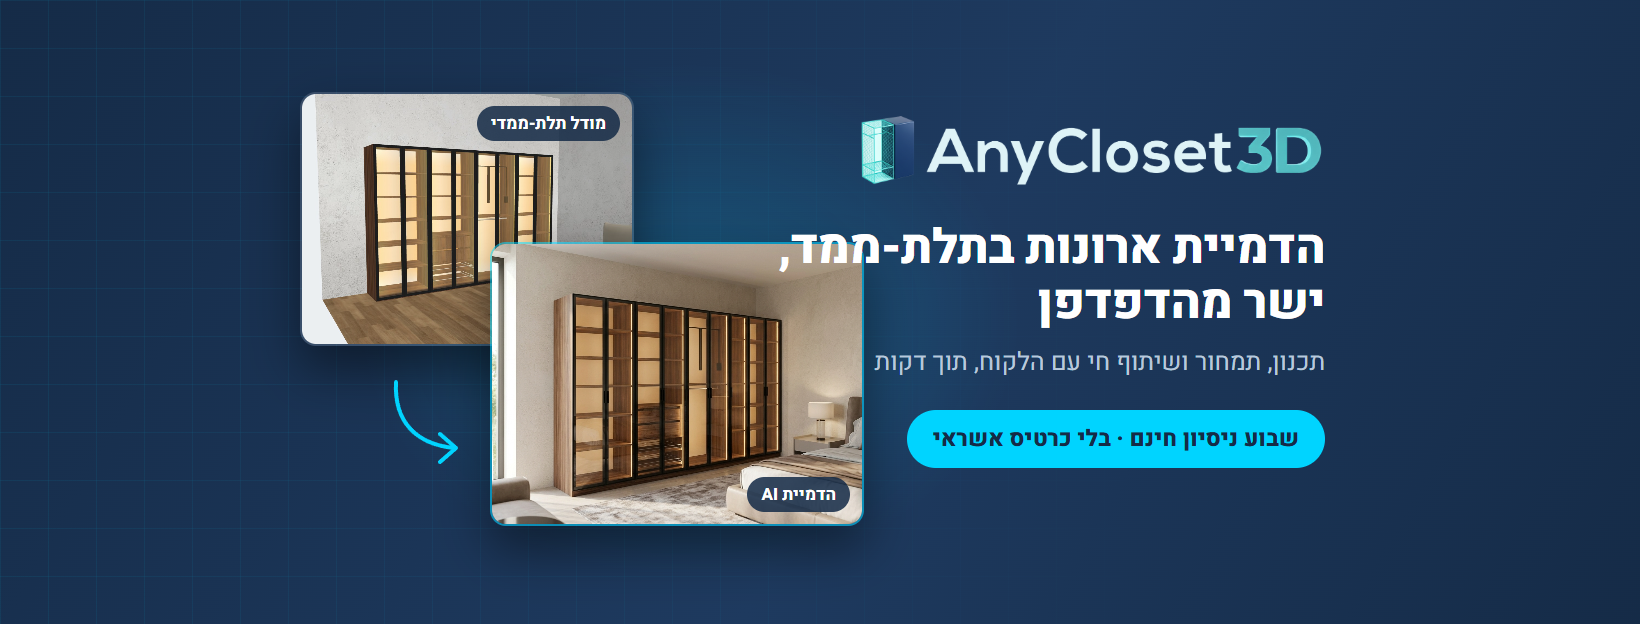
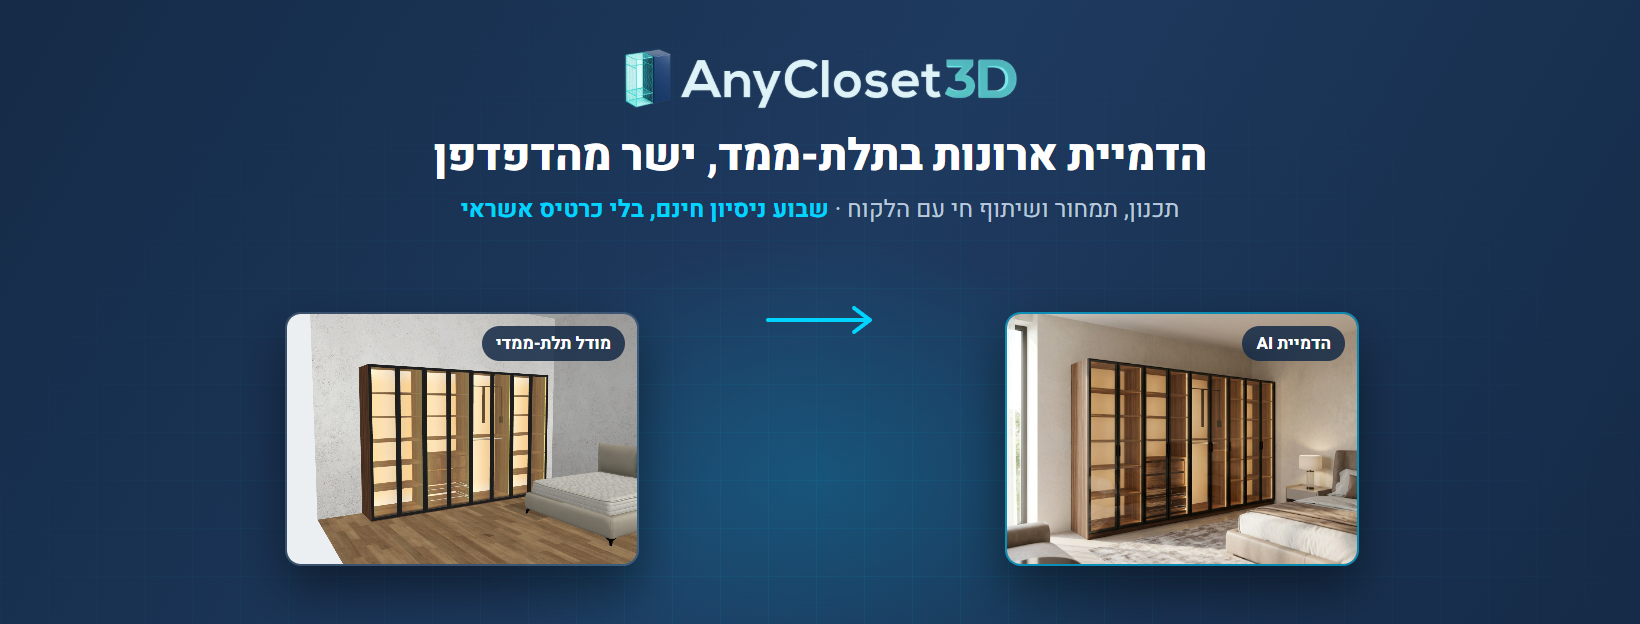
Rearrange the cover so the centered profile picture no longer hides the product shots and CTA

diff --git a/outputs/visuals/brand/src/cover.html b/outputs/visuals/brand/src/cover.html
@@ -8,7 +8,7 @@
   .canvas {
     width: 1640px; height: 624px; position: relative; overflow: hidden;
     font-family: 'Heebo', sans-serif; color: #FFFFFF;
-    background: linear-gradient(120deg, #152B47 0%, #1E3A5F 55%, #152B47 100%);
+    background: linear-gradient(120deg, #152B47 0%, #1E3A5F 50%, #152B47 100%);
   }
   .grid {
     position: absolute; inset: 0;
@@ -16,48 +16,35 @@
       linear-gradient(rgba(0, 212, 255, 0.07) 1px, transparent 1px),
       linear-gradient(90deg, rgba(0, 212, 255, 0.07) 1px, transparent 1px);
     background-size: 48px 48px;
-    -webkit-mask-image: linear-gradient(90deg, #000 0%, rgba(0,0,0,0.5) 45%, transparent 70%);
+    -webkit-mask-image: radial-gradient(ellipse at 50% 100%, #000 0%, rgba(0,0,0,0.35) 55%, transparent 80%);
   }
   .glow {
-    position: absolute; left: 330px; top: 40px; width: 720px; height: 560px;
-    background: radial-gradient(ellipse, rgba(0, 212, 255, 0.20) 0%, rgba(0, 212, 255, 0) 65%);
+    position: absolute; left: 420px; top: 220px; width: 800px; height: 520px;
+    background: radial-gradient(ellipse, rgba(0, 212, 255, 0.18) 0%, rgba(0, 212, 255, 0) 65%);
   }
 
-  /* Facebook mobile shows only the middle ~1110px, so all content lives between x=265 and x=1375 */
-  .text {
-    position: absolute; right: 315px; top: 112px; width: 560px; direction: rtl; text-align: right;
-  }
-  .logo { display: block; width: 470px; margin: 0 0 34px 0; }
-  h1 {
-    margin: 0 0 14px; font-weight: 800; font-size: 48px; line-height: 1.15; letter-spacing: -0.5px; white-space: nowrap;
-  }
-  .sub {
-    margin: 0 0 30px; font-weight: 400; font-size: 25px; line-height: 1.4; color: #B9C8DB;
-  }
-  .cta {
-    display: inline-block; padding: 12px 26px; border-radius: 999px;
-    background: #00D4FF; color: #152B47; font-weight: 800; font-size: 23px;
-  }
+  /* Facebook mobile shows only x=265..1375, and the profile picture sits over the bottom center (about x=660..980, y>330) */
+  .head { position: absolute; left: 0; right: 0; top: 46px; text-align: center; direction: rtl; }
+  .logo { display: block; width: 400px; margin: 0 auto 22px; }
+  h1 { margin: 0 0 10px; font-weight: 800; font-size: 44px; line-height: 1.15; letter-spacing: -0.5px; }
+  .sub { margin: 0; font-weight: 400; font-size: 24px; color: #B9C8DB; }
+  .sub b { color: #00D4FF; font-weight: 700; }
 
-  .shots { position: absolute; left: 300px; top: 92px; width: 560px; height: 440px; }
   .shot {
-    position: absolute; border-radius: 16px; overflow: hidden;
+    position: absolute; top: 312px; width: 350px; height: 250px; border-radius: 16px; overflow: hidden;
     box-shadow: 0 24px 50px rgba(0, 0, 0, 0.45);
     border: 2px solid rgba(255, 255, 255, 0.14);
   }
   .shot img { display: block; width: 100%; height: 100%; object-fit: cover; }
-  .shot.model { left: 0; top: 0; width: 330px; height: 250px; }
-  .shot.model img { object-position: 50% 50%; transform: scale(1.18); transform-origin: 48% 52%; }
-  .shot.model .tag { bottom: auto; top: 12px; }
-  .shot.ai { left: 190px; top: 150px; width: 370px; height: 280px; border-color: rgba(0, 212, 255, 0.55); }
+  .shot.model { left: 285px; }
+  .shot.model img { transform: scale(1.18); transform-origin: 48% 52%; }
+  .shot.ai { left: 1005px; border-color: rgba(0, 212, 255, 0.55); }
   .shot.ai img { object-position: 48% 50%; }
   .tag {
-    position: absolute; bottom: 12px; right: 12px; padding: 5px 14px; border-radius: 999px;
+    position: absolute; top: 12px; right: 12px; padding: 5px 14px; border-radius: 999px;
     background: rgba(21, 43, 71, 0.86); color: #FFFFFF; font-weight: 700; font-size: 17px; direction: rtl;
   }
-  .arrow {
-    position: absolute; left: 76px; top: 280px; width: 96px; height: 96px;
-  }
+  .arrow { position: absolute; left: 760px; top: 300px; width: 120px; height: 40px; }
 </style>
 </head>
 <body>
@@ -65,21 +52,18 @@
     <div class="grid"></div>
     <div class="glow"></div>
 
-    <div class="shots">
-      <div class="shot model"><img src="sample-3d.jpg" alt=""><span class="tag">מודל תלת-ממדי</span></div>
-      <div class="shot ai"><img src="ai-01.jpg" alt=""><span class="tag">הדמיית AI</span></div>
-      <svg class="arrow" viewBox="0 0 96 96" fill="none" stroke="#00D4FF" stroke-width="4" stroke-linecap="round" stroke-linejoin="round">
-        <path d="M20 10 C 18 50, 40 72, 78 76" />
-        <path d="M64 62 L 80 76 L 64 90" />
-      </svg>
+    <div class="head">
+      <img class="logo" src="logo-wide.png" alt="AnyCloset 3D">
+      <h1>הדמיית ארונות בתלת-ממד, ישר מהדפדפן</h1>
+      <p class="sub">תכנון, תמחור ושיתוף חי עם הלקוח · <b>שבוע ניסיון חינם, בלי כרטיס אשראי</b></p>
     </div>
 
-    <div class="text">
-      <img class="logo" src="logo-wide.png" alt="AnyCloset 3D">
-      <h1>הדמיית ארונות בתלת-ממד,<br>ישר מהדפדפן</h1>
-      <p class="sub">תכנון, תמחור ושיתוף חי עם הלקוח, תוך דקות</p>
-      <span class="cta">שבוע ניסיון חינם · בלי כרטיס אשראי</span>
-    </div>
+    <div class="shot model"><img src="sample-3d.jpg" alt=""><span class="tag">מודל תלת-ממדי</span></div>
+    <div class="shot ai"><img src="ai-01.jpg" alt=""><span class="tag">הדמיית AI</span></div>
+    <svg class="arrow" viewBox="0 0 120 40" fill="none" stroke="#00D4FF" stroke-width="4" stroke-linecap="round" stroke-linejoin="round">
+      <path d="M8 20 H 108" />
+      <path d="M94 8 L 110 20 L 94 32" />
+    </svg>
   </div>
 </body>
 </html>
